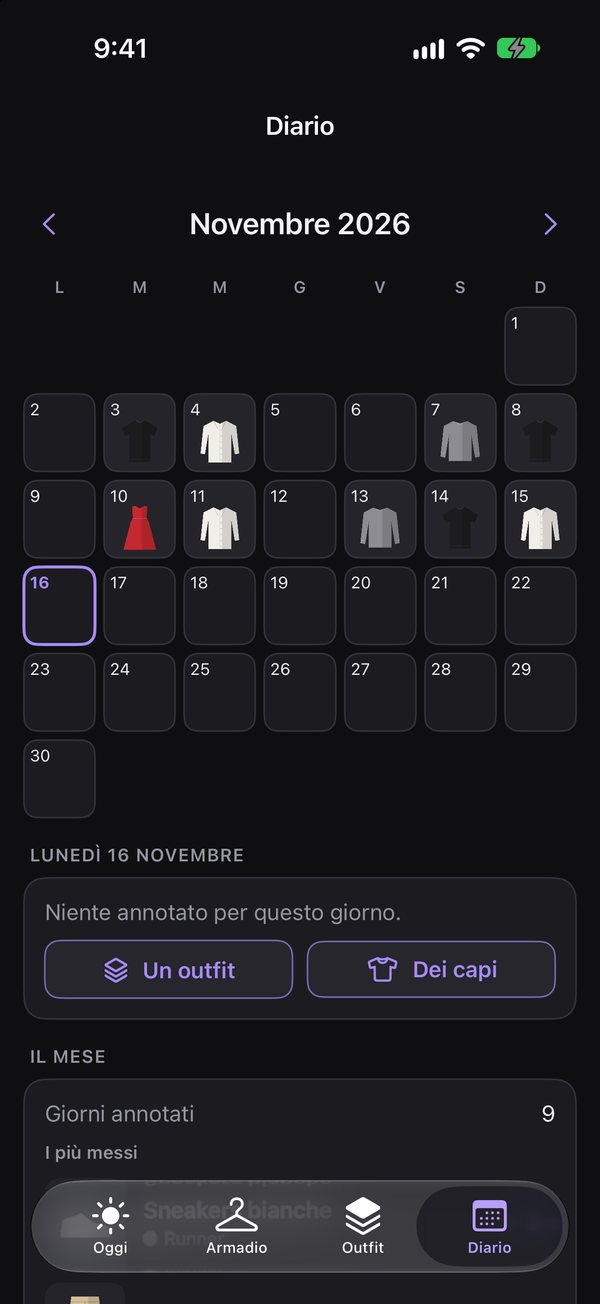
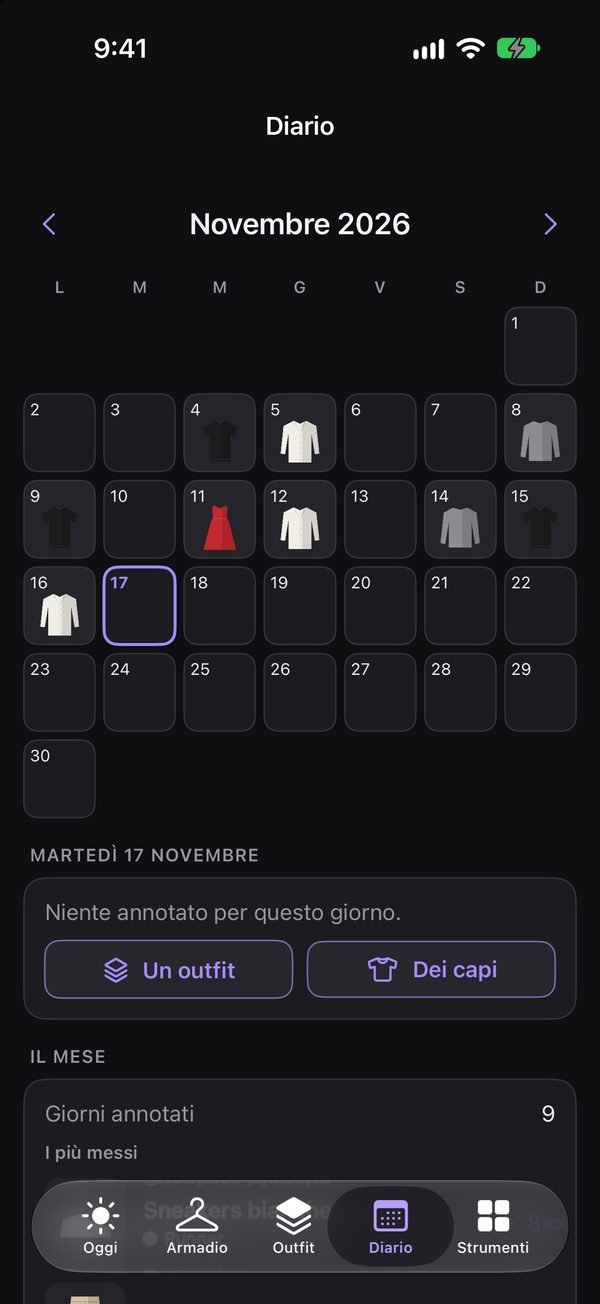
README: screenshots of the introduction, the AI and the tools

diff --git a/README.md b/README.md
@@ -14,8 +14,10 @@ può essere quella del server, Apple Intelligence sull'iPhone o un tuo servizio 
 **iPhone**
 
 <p>
+  <img src="docs/screenshots/iphone-intro.jpg" width="200" alt="Introduzione al primo avvio">
   <img src="docs/screenshots/iphone-welcome.jpg" width="200" alt="Primo avvio: usa in locale o usa un server">
   <img src="docs/screenshots/iphone-newserver.jpg" width="200" alt="Server nuovo: crea l'account dall'app">
+  <img src="docs/screenshots/iphone-aisetup.jpg" width="200" alt="Dove far girare l'IA">
   <img src="docs/screenshots/iphone-today.jpg" width="200" alt="Oggi: meteo e idea di cosa mettere">
   <img src="docs/screenshots/iphone-closet.jpg" width="200" alt="Armadio">
   <img src="docs/screenshots/iphone-outfits.jpg" width="200" alt="Outfit">
@@ -23,6 +25,11 @@ può essere quella del server, Apple Intelligence sull'iPhone o un tuo servizio 
   <img src="docs/screenshots/iphone-diary.jpg" width="200" alt="Diario del mese">
   <img src="docs/screenshots/iphone-detail.jpg" width="200" alt="Scheda di un capo">
   <img src="docs/screenshots/iphone-settings.jpg" width="200" alt="Impostazioni e server">
+  <img src="docs/screenshots/iphone-more.jpg" width="200" alt="Strumenti">
+  <img src="docs/screenshots/iphone-stylist.jpg" width="200" alt="Stylist con l'IA">
+  <img src="docs/screenshots/iphone-packing.jpg" width="200" alt="Valigia per un viaggio">
+  <img src="docs/screenshots/iphone-wishlist.jpg" width="200" alt="Cosa comprare">
+  <img src="docs/screenshots/iphone-stats.jpg" width="200" alt="Statistiche">
 </p>
 
 **iPad**
